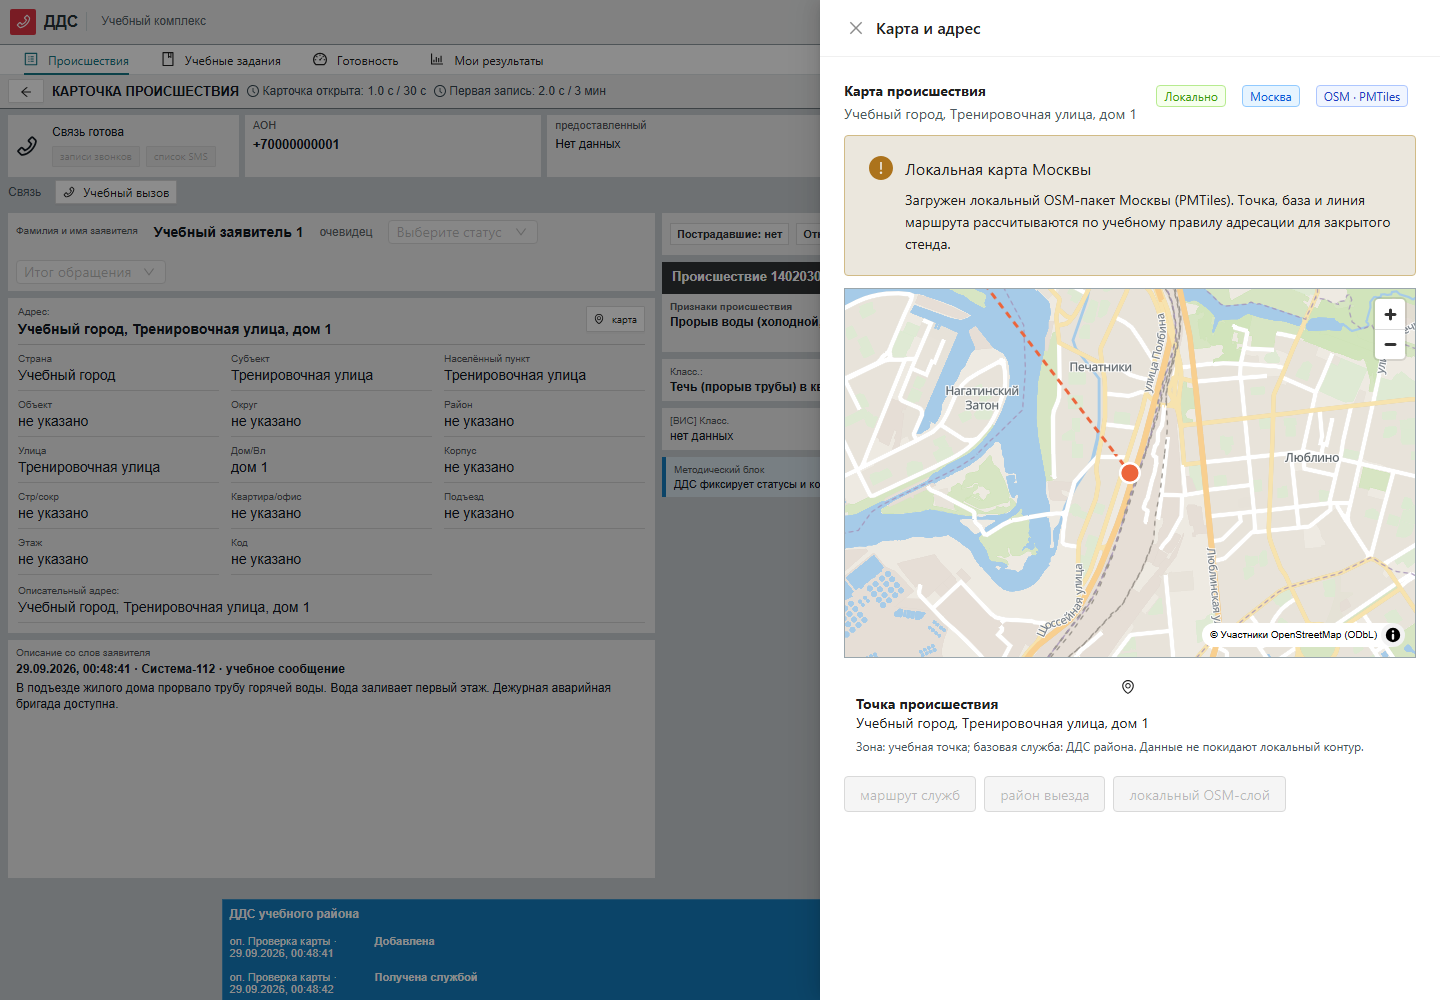
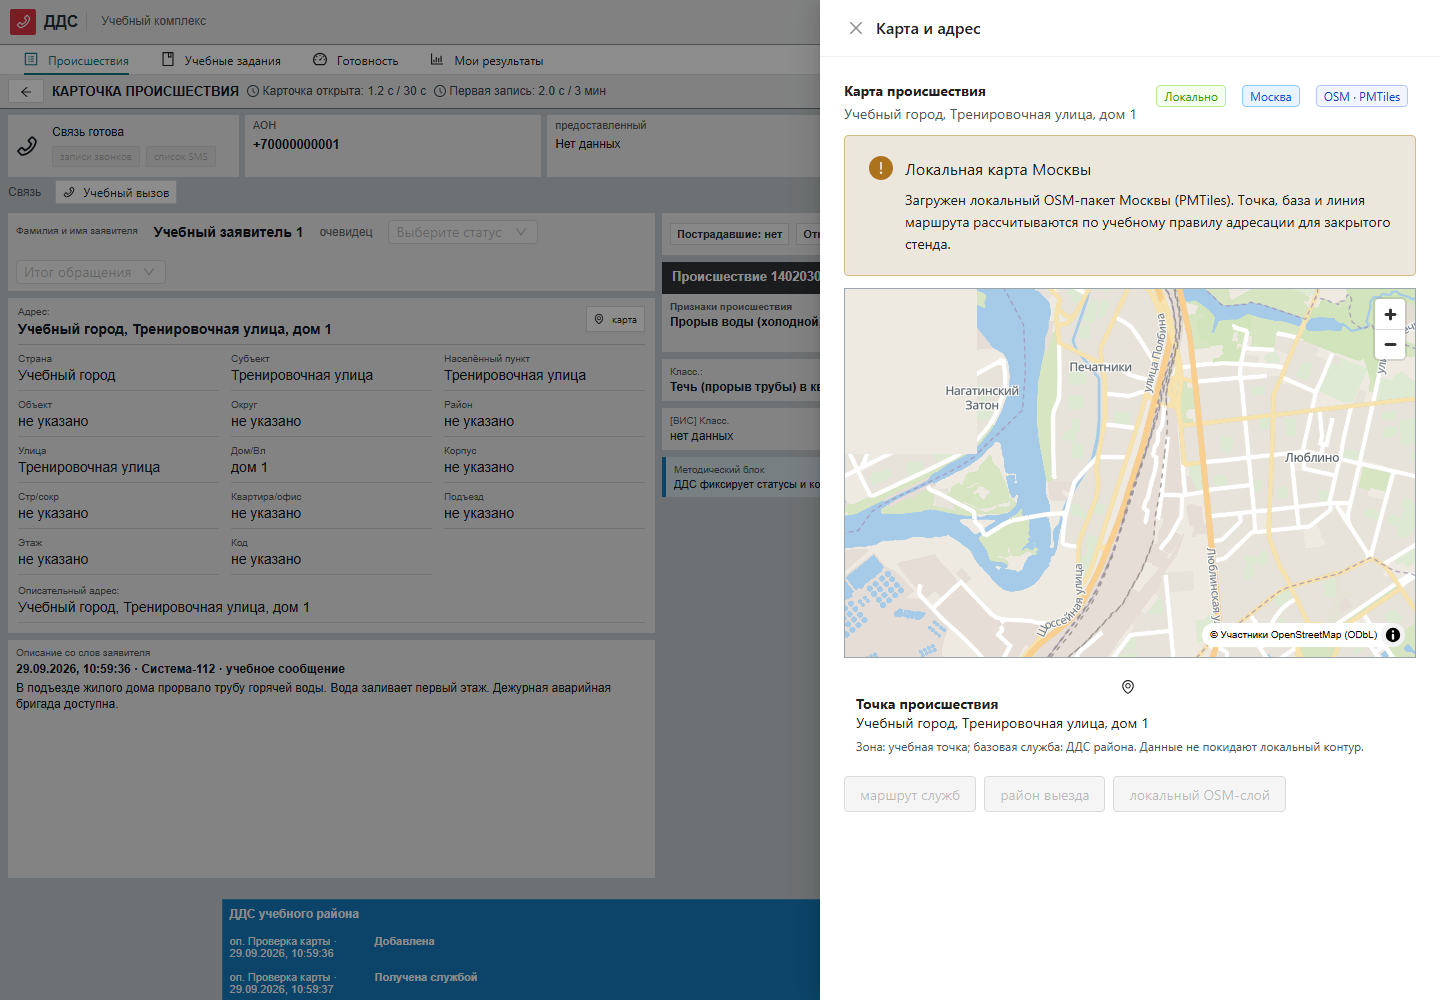
Freeze workspace timers after session finish

diff --git a/frontend/tests/flow.spec.ts b/frontend/tests/flow.spec.ts
@@ -303,3 +303,45 @@ test('readiness dashboard summarizes product contour for demonstration', async (
     await page.evaluate(() => document.documentElement.scrollWidth > window.innerWidth + 2),
   ).toBeFalsy();
 });
+
+test('first record timer stops once the session is finished', async ({ page, request }) => {
+  const teacher = await request.post('/api/v1/auth/login', {
+    form: { username: 'administrator@dds.local', password: 'DdsDemo2026!' },
+  });
+  expect(teacher.ok()).toBeTruthy();
+  const token = (await teacher.json()).access_token;
+  const email = 'timer-' + Date.now() + '@dds.local';
+  const created = await request.post('/api/v1/admin/users', {
+    headers: { Authorization: 'Bearer ' + token },
+    data: { email, name: 'Проверка таймера', password: 'DdsDemo2026!', role: 'trainee' },
+  });
+  expect(created.status()).toBe(201);
+  const auth = await request.post('/api/v1/auth/login', {
+    form: { username: email, password: 'DdsDemo2026!' },
+  });
+  expect(auth.ok()).toBeTruthy();
+  const headers = { Authorization: 'Bearer ' + (await auth.json()).access_token };
+  const started = await request.post('/api/v1/simulation/sessions', {
+    headers,
+    data: { scenario_id: 'wire' },
+  });
+  expect(started.status()).toBe(201);
+  const card = await started.json();
+  const finish = await request.post(
+    '/api/v1/simulation/sessions/' + card.session_id + '/finish',
+    { headers },
+  );
+  expect(finish.ok()).toBeTruthy();
+  await page.goto('/');
+  await page.getByLabel('Электронная почта').fill(email);
+  await page.getByLabel('Пароль', { exact: true }).fill('DdsDemo2026!');
+  await page.getByRole('button', { name: 'Войти', exact: true }).click();
+  await expect(page.getByRole('heading', { name: 'Поиск происшествий' })).toBeVisible();
+  await page.goto('/incidents/' + card.id);
+  await expect(page.getByRole('heading', { name: 'Результат занятия' })).toBeVisible();
+  const chip = page.getByText(/Первая запись:/);
+  await expect(chip).toContainText('нет');
+  const frozen = await chip.innerText();
+  await page.waitForTimeout(2000);
+  expect(await chip.innerText()).toBe(frozen);
+});

diff --git a/frontend/src/workspace.tsx b/frontend/src/workspace.tsx
@@ -177,10 +177,16 @@ export function Workspace() {
   const locked =
     ['completed', 'refused'].includes(card.status) || card.session_status === 'finished';
   const busy = calling || reacting || saving || finishing || removing;
+  const cardCreatedMs = new Date(card.created_at).getTime();
+  const frozenNowMs = card.finished_at
+    ? new Date(card.finished_at).getTime()
+    : locked
+      ? new Date(card.updated_at).getTime()
+      : now;
   const elapsed =
-    card.acknowledged_at || card.session_status === 'finished'
+    card.acknowledged_at || locked
       ? card.acknowledgement_seconds
-      : Math.max(0, (now - new Date(card.created_at).getTime()) / 1000);
+      : Math.max(0, (now - cardCreatedMs) / 1000);
   const communications = (card.events || []).filter((e) => e.kind === 'communication');
   const last = communications.at(-1);
   const callState = last?.payload.action || 'hangup';
@@ -192,12 +198,8 @@ export function Workspace() {
     (event) => event.kind === 'reaction' && event.payload.comment?.trim(),
   );
   const firstRecordSeconds = firstTextReaction
-    ? Math.max(
-        0,
-        (new Date(firstTextReaction.created_at).getTime() - new Date(card.created_at).getTime()) /
-          1000,
-      )
-    : Math.max(0, (now - new Date(card.created_at).getTime()) / 1000);
+    ? Math.max(0, (new Date(firstTextReaction.created_at).getTime() - cardCreatedMs) / 1000)
+    : Math.max(0, (frozenNowMs - cardCreatedMs) / 1000);
   const firstRecordDone = Boolean(firstTextReaction);
   const currentCard = async () => {
     if (pendingPhone.current) await pendingPhone.current;
@@ -338,7 +340,7 @@ export function Workspace() {
             role="status"
           >
             <ClockCircleOutlined /> Первая запись:{' '}
-            {firstRecordDone ? 'есть' : firstRecordSeconds.toFixed(1) + ' с'} / 3 мин
+            {firstRecordDone ? 'есть' : locked ? 'нет' : firstRecordSeconds.toFixed(1) + ' с'} / 3 мин
           </span>
         </Space>
         <Space wrap>

diff --git a/frontend/src/types.ts b/frontend/src/types.ts
@@ -116,6 +116,7 @@ export type Incident = {
   overdue: boolean;
   allowed_statuses: string[];
   session_status: string | null;
+  finished_at: string | null;
   events?: Event[];
   evaluation?: Evaluation | null;
   scenario?: Scenario | null;

diff --git a/docs/ai/TASK_QUEUE.md b/docs/ai/TASK_QUEUE.md
@@ -9,12 +9,13 @@ The historical integration queue below must not trigger repeated merges.
 - [x] Final timing/112 field ownership/ML validation fixes; instructor reviewed JSONL export.
 - [x] Real release GGUF verified and launched in separate ML environment; API local/fallback and concurrent finish passed.
 - [x] Local generation produced one case; reviewed-import dry validation passed without database writes.
-- [x] Backend 34 tests, Ruff, contract export, frontend build and 22 desktop/mobile tests passed. (as of 2026-09-28; current gate is 42 backend tests / 28 browser tests — see the 2026-09-29 entry below)
+- [x] Backend 34 tests, Ruff, contract export, frontend build and 22 desktop/mobile tests passed. (as of 2026-09-28; current gate is 42 backend tests / 30 browser tests — see the 2026-09-29 entries below)
 - [x] Native model/evaluator launcher start/stop verified; offline GIS external-request test passed.
 - [x] Published application c55103c; GitHub CI 36462902808 verify + containers passed. Later report-only commit uses [skip ci].
 - [x] Product-facing cleanup before submission: removed development wording from visible UI, added final delivery checklist, refreshed screenshots, reran Ruff + 34 backend tests + frontend build + 22 browser tests.
 - [x] Customer-wow pass: added `/readiness` deployment/value dashboard, richer ML result explanation, updated demo route, refreshed readiness screenshot, verified Ruff + 34 backend tests + frontend build + 24 browser tests.
 - [x] Instructor scenario generation loop (2026-09-29): separate `POST /v1/generate` contract with `scenario_generator` capability, gateway `generate_scenarios` + `ML_GENERATE_TIMEOUT`, staff endpoints `/instructor/scenarios/generate|import` sharing `backend/app/scenario_packages.py` validation with the CLI, React `ScenarioLab` preview/approve/import; Ruff + pytest 42 + Playwright 28 + build green; real local-model generation, Postgres import and 409 duplicate path verified.
+- [x] Frozen workspace counters after session finish (2026-09-29): `workspace.tsx` stops the "Первая запись"/"Карточка открыта" fallback at `finished_at` (or `updated_at` when locked) and shows `нет` instead of a growing value; `Incident.finished_at` added to types; build + Playwright 30 green with a regression test.
 - [ ] Team: approve methodology/scenarios, prepare presentation/screencast before stop-code. The repository is public, so no separate jury access grant is required.
 
 Residual scope and evidence: docs/FINAL_INTEGRATION_AUDIT.ru.md and docs/VERIFICATION.md.

diff --git a/docs/ai/HANDOFF_FOR_ASTRA.md b/docs/ai/HANDOFF_FOR_ASTRA.md
@@ -2,17 +2,24 @@
 
 ## 2026-09-29 update
 
-Instructor scenario generation loop is implemented (Danil chose variant 1, full cycle in
-the UI): staff button «Генерация сценариев» on `/results` → local model preview → approve
-selected → import with reviewer provenance. Entry points: `frontend/src/generator.tsx`,
-`backend/app/routers/api.py` (`POST /instructor/scenarios/generate|import`),
-`backend/app/scenario_packages.py` (validation shared with
-`scripts/import_reviewed_scenarios.py`), `ml/evaluator_service.py` (`POST /v1/generate`,
-capability `scenario_generator`), `backend/app/ml_gateway/gateway.py`
-(`generate_scenarios`, `ML_GENERATE_TIMEOUT`). Verification is in docs/VERIFICATION.md
-(Ruff, pytest 42/42, frontend build, Playwright 28/28, real local generation and
-Postgres import/409 with cleanup). Start from the 2026-09-29 checkpoint in PROJECT_STATE;
-changes are not committed yet.
+Workspace timer freeze: counters «Первая запись»/«Карточка открыта» now stop at
+`finished_at` (or `updated_at` when the card is locked) instead of ticking after
+«Завершить занятие», and show `нет` once editing is closed; `Incident.finished_at`
+added in `frontend/src/types.ts`. Verification in docs/VERIFICATION.md: build passed,
+Playwright 30/30 desktop+mobile with the regression test `first record timer stops once
+the session is finished`; backend Ruff/pytest 42 unchanged. The timer fix is not
+committed yet.
+
+Published earlier on 2026-09-29: instructor scenario generation loop (Danil chose variant
+1, full cycle in the UI): staff button «Генерация сценариев» on `/results` → local model
+preview → approve selected → import with reviewer provenance. Entry points:
+`frontend/src/generator.tsx`, `backend/app/routers/api.py`
+(`POST /instructor/scenarios/generate|import`), `backend/app/scenario_packages.py`
+(validation shared with `scripts/import_reviewed_scenarios.py`), `ml/evaluator_service.py`
+(`POST /v1/generate`, capability `scenario_generator`), `backend/app/ml_gateway/gateway.py`
+(`generate_scenarios`, `ML_GENERATE_TIMEOUT`). Real local generation and Postgres
+import/409 with cleanup were verified; commits 75dfd02, 5a20214, bd11a23 are on public
+main. Start from the 2026-09-29 checkpoint in PROJECT_STATE.
 
 ## 2026-09-28 update
 

diff --git a/docs/ai/PROJECT_STATE.md b/docs/ai/PROJECT_STATE.md
@@ -1,6 +1,18 @@
 # Project State
 
-## Current checkpoint: 2026-09-29 instructor scenario generation loop
+## Current checkpoint: 2026-09-29 workspace timer freeze after session finish
+
+Bug report: counters kept ticking after «Завершить занятие» (chip «Первая запись» showed
+240.1 s on a 02:35 session). Cause in `frontend/src/workspace.tsx`: the fallback was
+`now - created_at` for any card without a comment-bearing reaction, so it ignored
+`locked`/`finished_at`. Fix: freeze the fallback at `finished_at` (or at `updated_at`
+when locked), render `нет` instead of a growing value after editing closes, add
+`Incident.finished_at` to `frontend/src/types.ts`. Verification 2026-09-29: frontend
+production build passed; Playwright 30/30 desktop+mobile including the regression test
+`first record timer stops once the session is finished`; backend Ruff/pytest 42
+untouched. Not committed yet.
+
+## Previous checkpoint: 2026-09-29 instructor scenario generation loop
 
 Danil chose the "full cycle inside the instructor UI" variant: preview variants from the
 local model, approve only the selected ones, import them with reviewer provenance.
@@ -21,9 +33,10 @@ generated in about 5 s through the API at `ML_MODE=local`, imported into Postgre
 `source.status=TEAM_REVIEWED` and reviewer name, duplicate import returned 409 «Уже
 импортированы», then the test row was removed so the demo catalogue still holds the
 original 3 scenarios. Evidence: `docs/VERIFICATION.md`, `docs/ML_INTEGRATION.md`,
-`docs/data/DATA_CONTRACT.md`. Changes are not committed yet.
+`docs/data/DATA_CONTRACT.md`. Published in commits 75dfd02 and bd11a23 after the
+repository was made public.
 
-## Previous checkpoint: 2026-09-28 product delivery cleanup
+## Earlier checkpoint: 2026-09-28 product delivery cleanup
 
 New customer-wow pass added a product readiness dashboard and richer ML result explanation.
 `/readiness` summarizes local deployment, API/PostgreSQL, ML mode, closed offline map,

diff --git a/docs/VERIFICATION.md b/docs/VERIFICATION.md
@@ -1,5 +1,22 @@
 # Протокол Проверки
 
+## 29.09.2026 — остановка счётчиков после завершения занятия
+
+Цель прохода: жалоба «таймер продолжает идти после завершения». Причина найдена в
+`frontend/src/workspace.tsx`: «Первая запись» и «Карточка открыта» без реакции с
+комментарием считались как `now - created_at` и не останавливались в момент
+`Завершить занятие` — карточка блокировалась, а число росло (240.1 с при занятии
+02:35). Счётчики теперь замирают по `finished_at` (при его отсутствии — по
+`updated_at` терминальной карточки), чип «Первая запись» после закрытия
+редактирования показывает `нет` вместо растущего значения; поле `finished_at`
+добавлено в тип `Incident`.
+
+| Проверка | Фактический результат |
+|---|---|
+| `npm run build` (frontend) | Passed; сохраняется предупреждение Vite о крупных MapLibre/vendor chunks |
+| `npm test` (frontend) | 30 passed, desktop + mobile; добавлен регрессионный `first record timer stops once the session is finished` (после finish чип показывает `нет` и не меняется 2 с) |
+| Существующие проверки | 42 backend tests, Ruff, контракты без изменений |
+
 ## 29.09.2026 — генерация учебных сценариев в интерфейсе преподавателя
 
 Цель прохода: закрыть «полный цикл в UI преподавателя» — локальная модель предлагает

diff --git a/docs/CURRENT_STATUS.md b/docs/CURRENT_STATUS.md
@@ -36,7 +36,7 @@ Windows: UI http://127.0.0.1:5173, API http://127.0.0.1:8000/docs.
 
 ## Проверки
 
-42 серверных теста, 28 браузерных сценариев (desktop/mobile), ruff и сборка TypeScript
+42 серверных теста, 30 браузерных сценариев (desktop/mobile), ruff и сборка TypeScript
 зелёные на 29.09.2026. Актуальные результаты: [VERIFICATION](VERIFICATION.md) и вкладка
 Actions репозитория (CI на каждый push, ручной запуск кнопкой «Run workflow»).
 Ранее объединённый main уже проходил CI; результат нового прохода нельзя выводить
